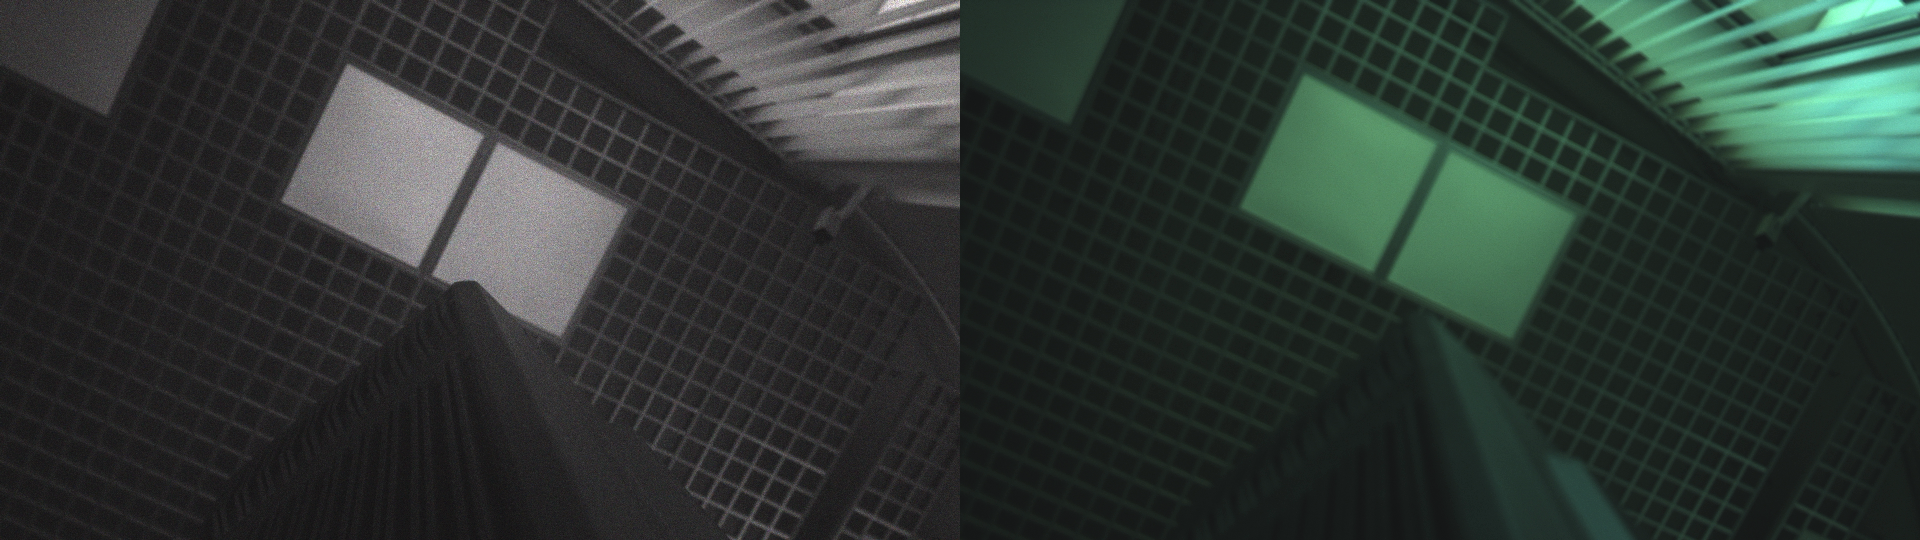
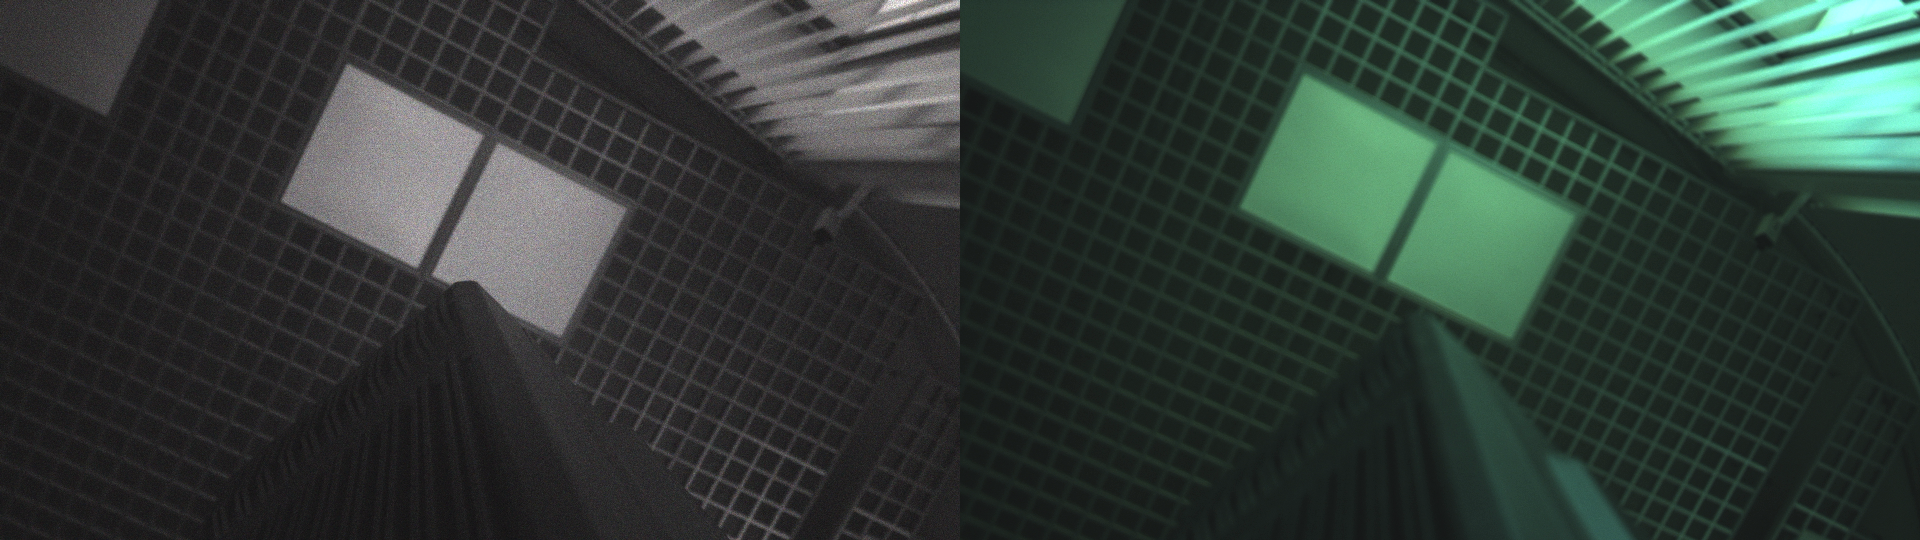
docs: update mega-frame preview with real image after ISP warmup
Updated README with detailed ISP warmup procedure:
- rkaiq_3A_server must be stopped (blocks sensor)
- rkipc run for 8s initializes rk_aiq with IQ files
- vi_grab_avs captures real image after warmup
- simple_vi_bind_avs_bind_venc alternative on board

Generated with [Devin](https://devin.ai)

diff --git a/README.md b/README.md
@@ -1226,7 +1226,22 @@ Frame 0: 3840x1080 pts=8420618673us grab=168ms → mega_3840x1080_pts8420618673_
 - **PTS**: 8420618673us (единая для обоих сенсоров!)
 - **Время захвата**: 168ms (включая sync wait + hardware stitch)
 - **Синхронизация**: `bSyncPipe=1` — аппаратная
-- **ISP warmup**: для реального изображения (не тест-паттерна) нужно сначала запустить `rkipc` на 5 секунд, чтобы `rk_aiq` применил IQ-калибровку (`/etc/iqfiles/gc2093_*.json`)
+- **ISP warmup (ВАЖНО)**: `vi_grab_avs` не инициализирует `rk_aiq` (нет заголовков `rk_aiq_user_api2_*.h` в SDK). Без warmup сенсоры выдают тест-паттерн (чёрный/белый). Для реального изображения нужно:
+  1. Остановить `rkaiq_3A_server` (он блокирует сенсор): `/etc/init.d/S40rkaiq_3A stop`
+  2. Запустить `rkipc` на 5-8 секунд (инициализирует `rk_aiq` с IQ-файлами `/etc/iqfiles/gc2093_*.json` для обоих сенсоров)
+  3. Остановить `rkipc` — ISP остаётся «тёплым» (калибровка в регистрах)
+  4. Запустить `vi_grab_avs` — подхватывает уже настроенный пайплайн
+  5. Перезапустить `rkaiq_3A_server`: `/etc/init.d/S40rkaiq_3A start`
+
+  ```bash
+  /etc/init.d/S40rkaiq_3A stop
+  /usr/bin/rkipc -c /usr/share/rkipc-dual-800w.ini -l 0 &
+  RKP=$!; sleep 8; kill $RKP; wait $RKP 2>/dev/null
+  /tmp/vi_grab_avs -w 1920 -h 1080 -n 3 -v -t 15000
+  /etc/init.d/S40rkaiq_3A start
+  ```
+
+  Альтернатива: на плате есть готовый `/usr/bin/simple_vi_bind_avs_bind_venc` — он **сам** инициализирует `rk_aiq` и делает VI→AVS→VENC (H.264), но не сохраняет raw NV12.
 
 Топология камеры на плате:
 ```